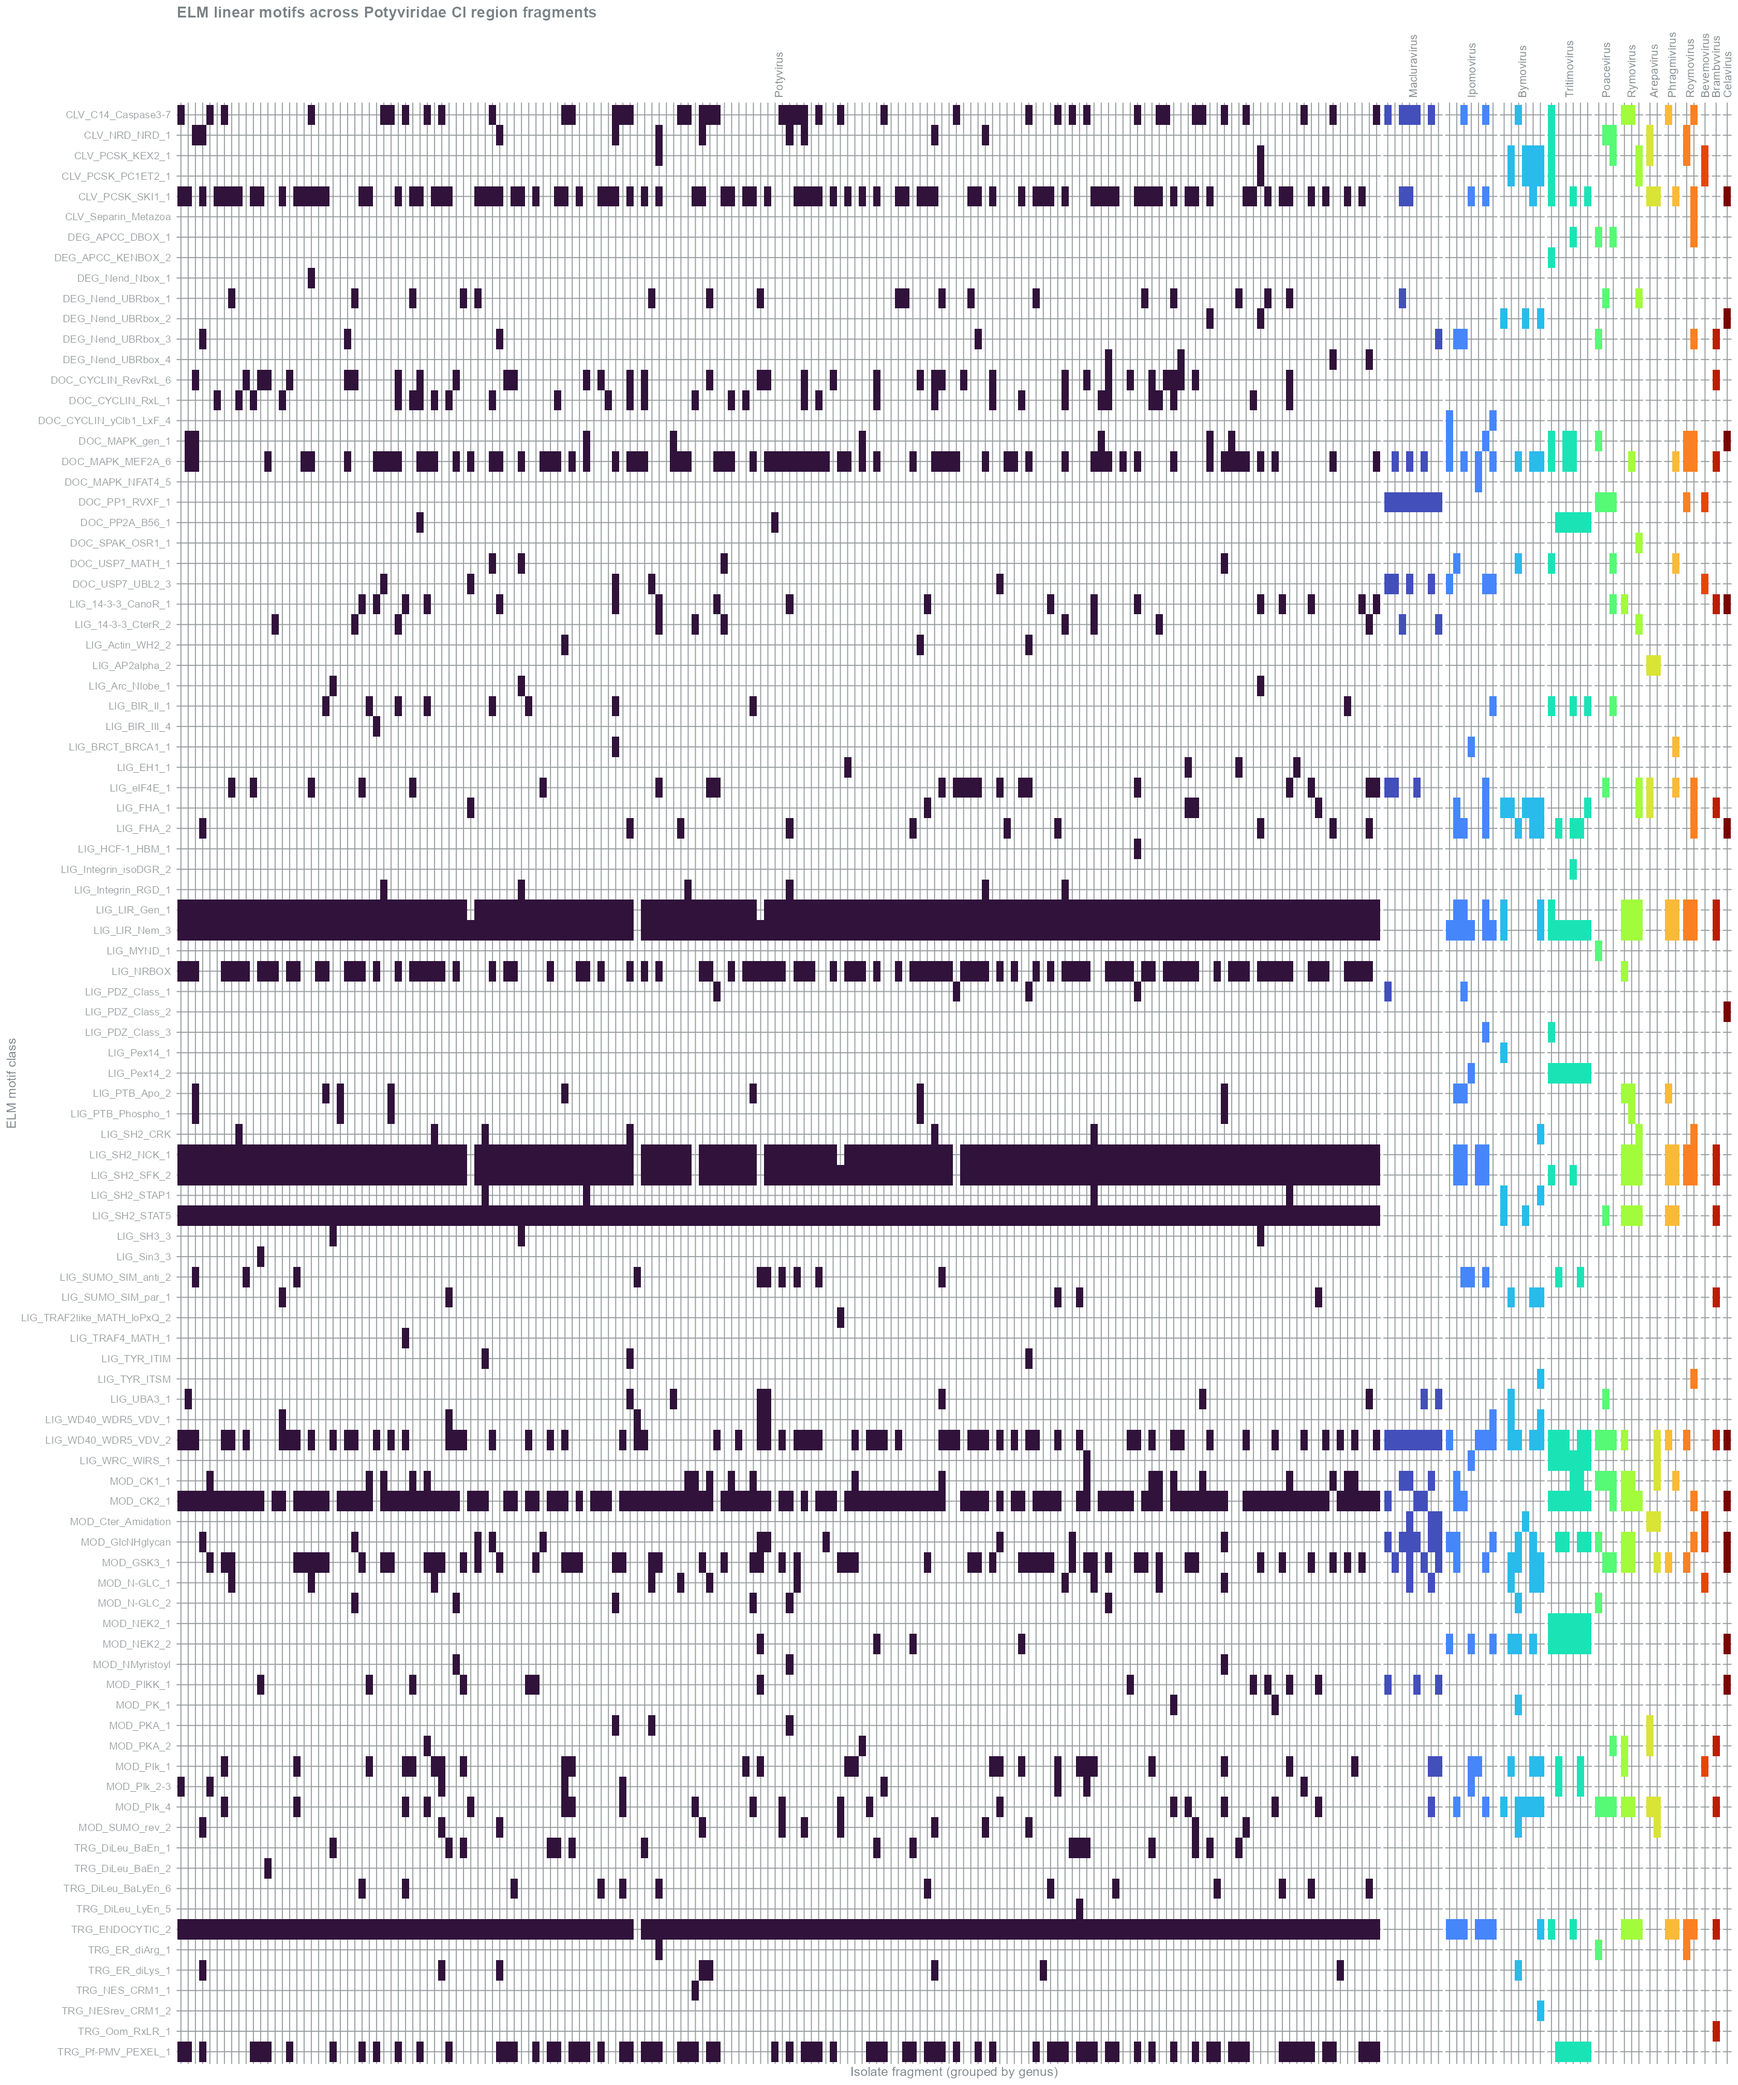
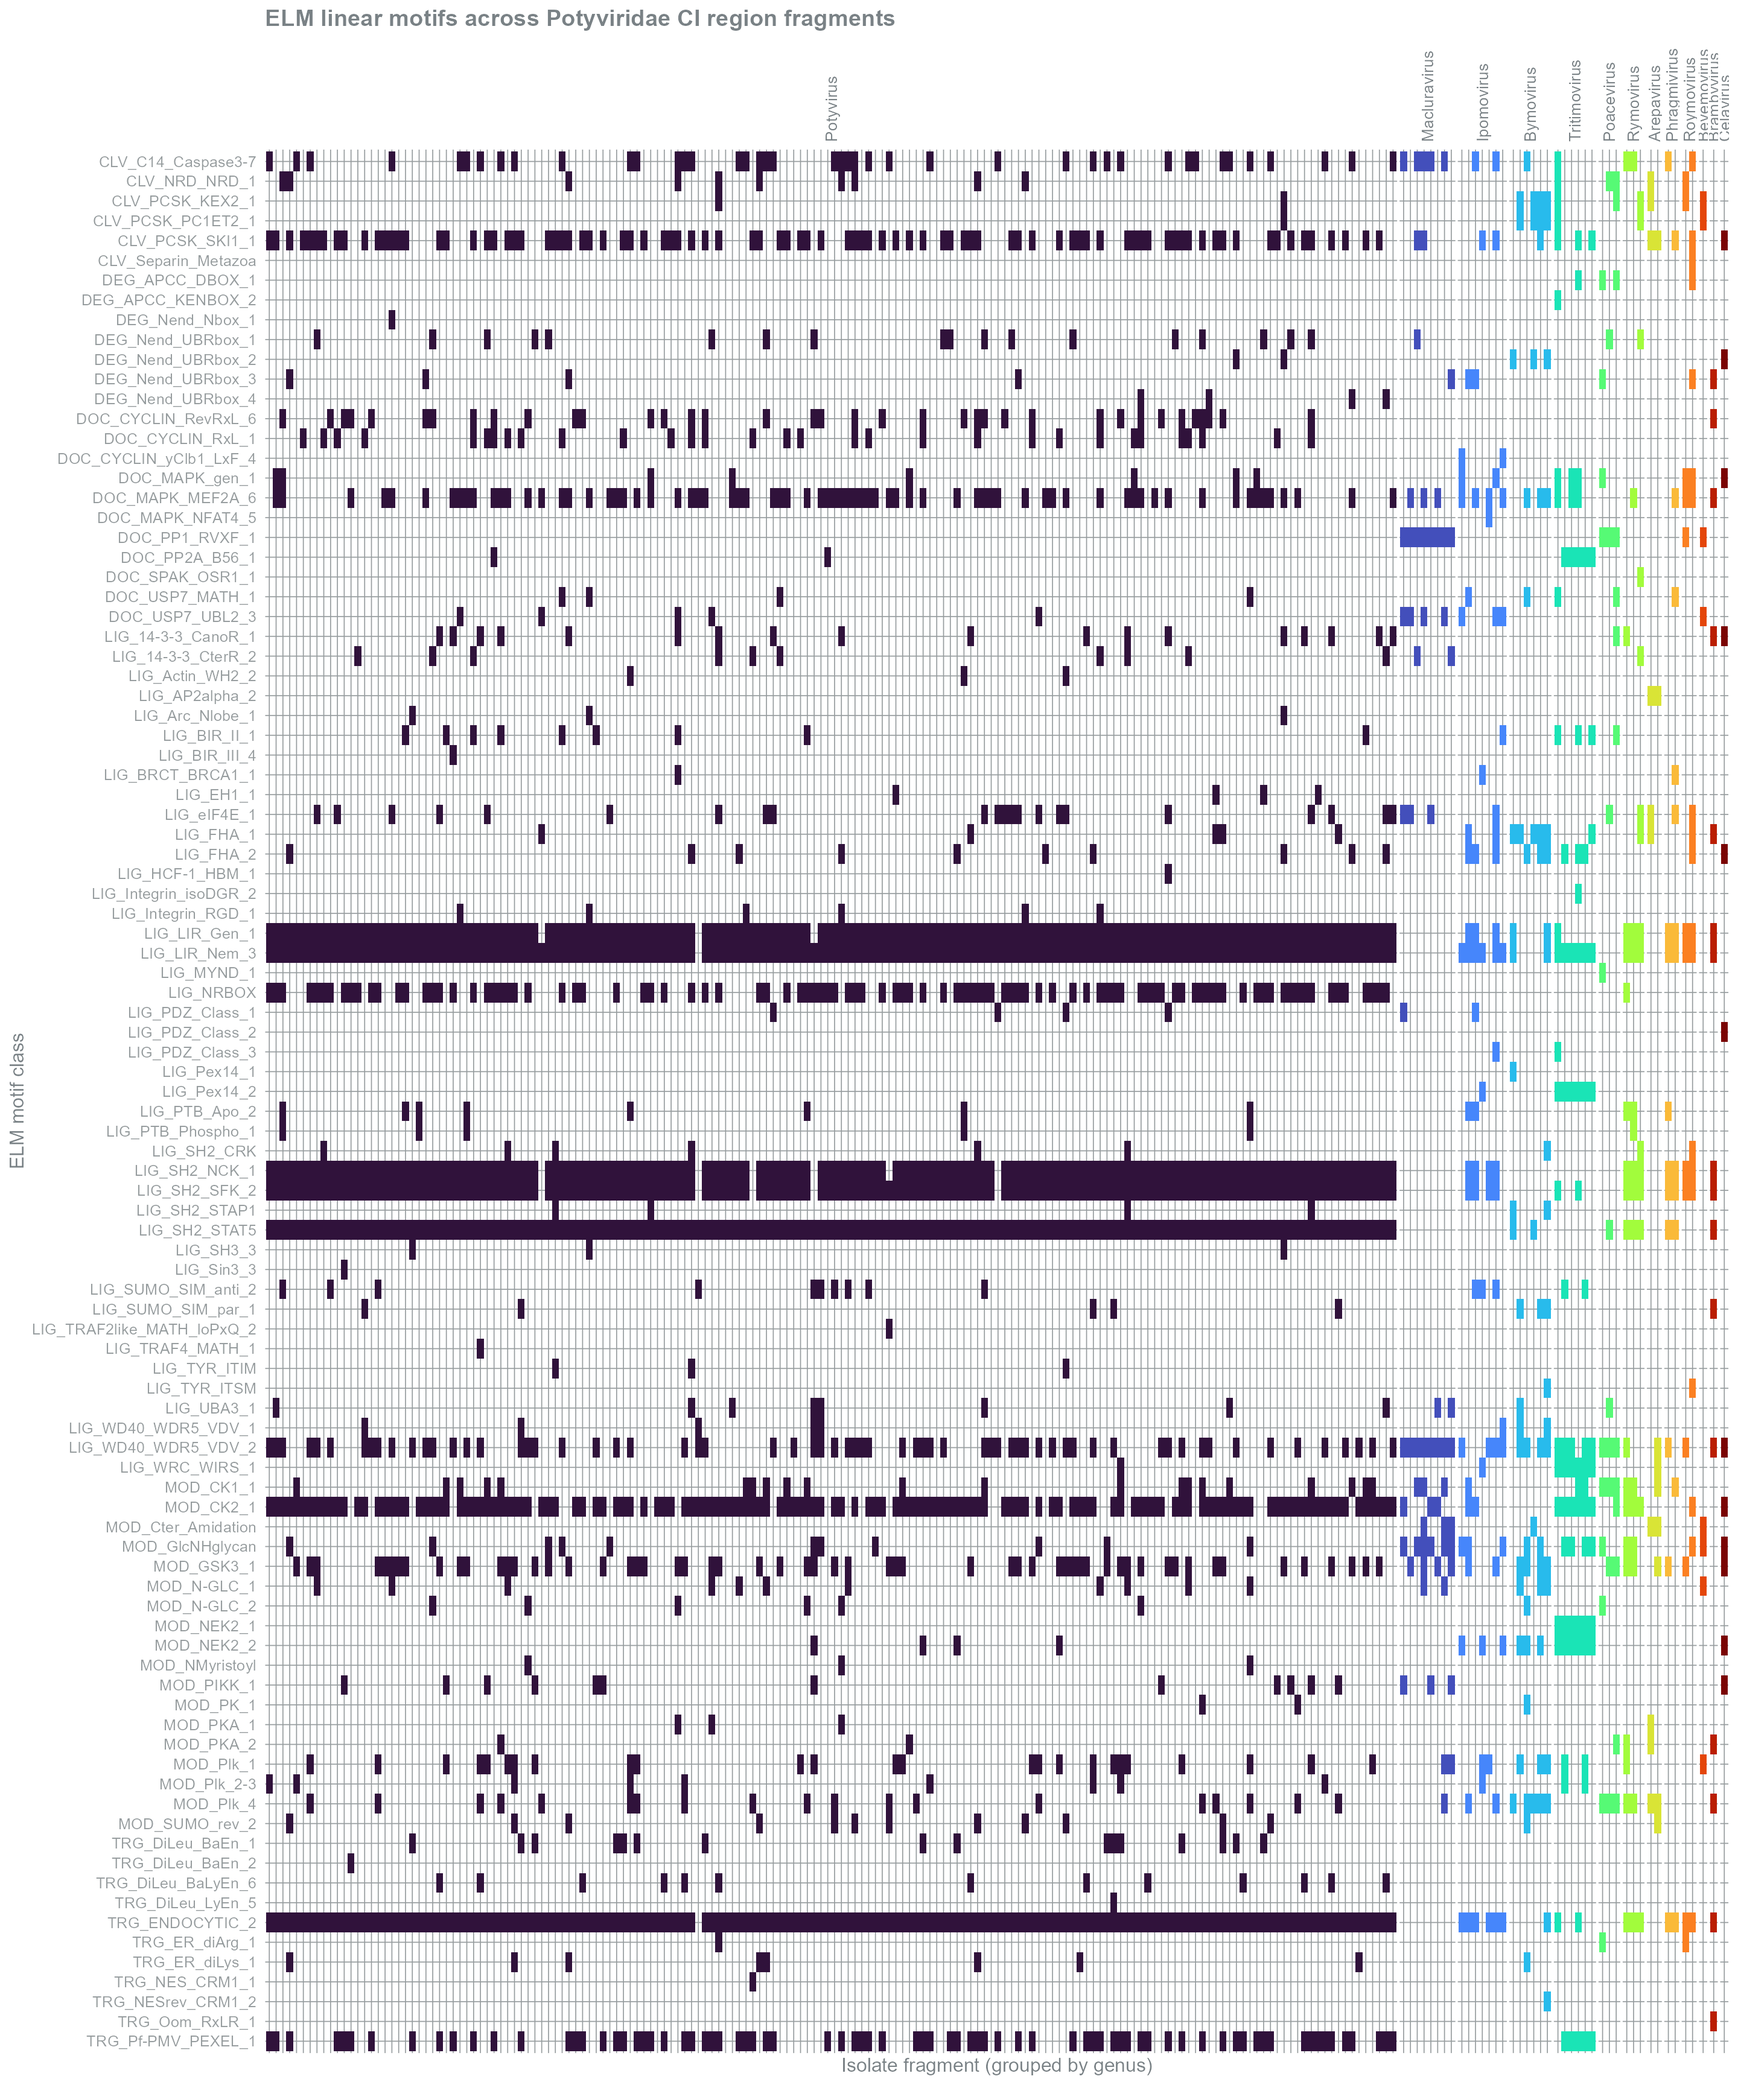
nb04: smaller ELM reference table type, larger motif-grid plot text
DT table was reading at default (~1rem) size for a dense, many-column
table -- scoped down via a dedicated class. The motif-presence grid
plot used theme_manuscript(base_size = 8), far too small for a 15x18in
figure; bumped to 12 (facet strip labels 7 -> 10 to match).

diff --git a/assets/hail-mary.css b/assets/hail-mary.css
@@ -1237,3 +1237,6 @@ table.dataTable thead select {
   border-color: var(--hm-line-strong);
   box-shadow: none;
 }
+
+/* nb04 ELM reference table: dense, many columns -- smaller type reads better */
+table.hm-elm-ref { font-size: 0.82rem; }
